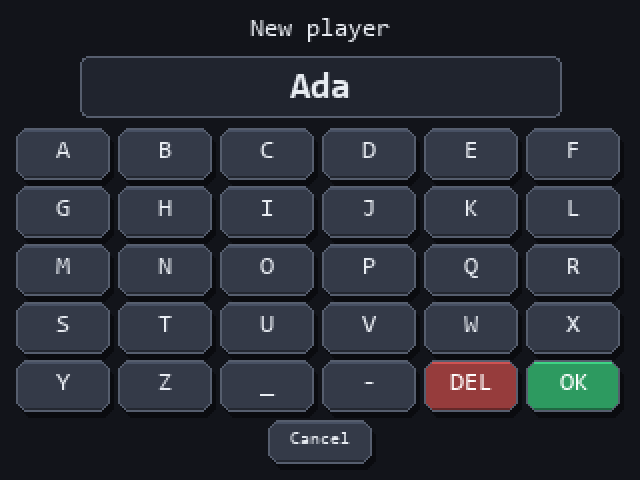
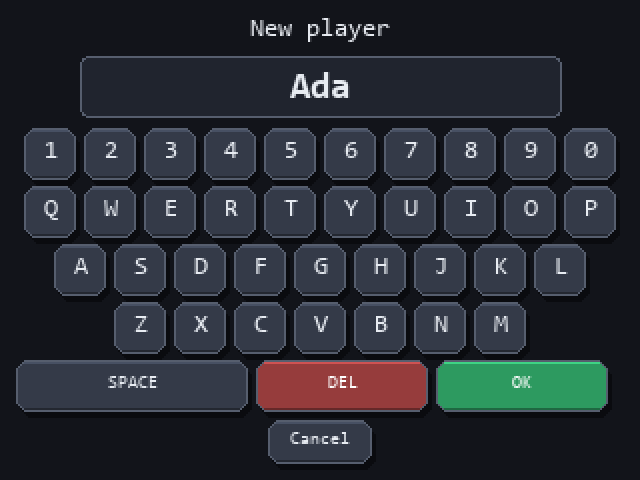
Draw the screens that changed
Three mock-ups had drifted from the firmware, which is the failure mode
docs/screens exists to prevent:

  - profiles-rename still drew the old 6x5 alphabetical grid, so it was a
    picture of a keyboard that no longer exists.
  - nearby showed neither the Name chips nor a named peer.
  - the naming screen had no picture at all.

All three now come from one _keypad() helper that mirrors Ui::Keypad --
ragged QWERTY rows centred, action row, anchored to the bottom above the
reserved footer. Keeping the mock-up's geometry in one place is the same
argument as keeping the firmware's in one place.

The nearby still shows a NAMED peer with its tag still visible beneath the
label, because that is the part of the design worth being able to see: the
tag is what travels, and it is the only way to notice a name sitting on
the wrong device.

gen_site gets the new still in SCREEN_CAPTIONS and the nearby showcase --
a still on disk the site does not reference makes gen_site refuse to
generate, which fails the Pages deploy rather than the build. Its Nearby
subtitle said "device tags only, never names", which is now too blunt to
be true: names exist, and the accurate claim is that they never leave the
device that stored them.

Changed region(s): [[0.0, 0.25, 0.9688, 0.875], [0.0938, 0.7812, 0.125, 0.8125]]

diff --git a/tools/gen_screens.py b/tools/gen_screens.py
@@ -1454,13 +1454,18 @@ def nearby():
         ("s", "You", "", None),
         ("r", "Your tag", "A4F2", None),
         ("r", "Listening", "Yes", SUCCESS),
-        ("s", "7C1B", "", None),
+        # A NAMED peer: the label is the heading and the tag stays as a row,
+        # because the tag is what travels and is the only way to spot a label
+        # sitting on the wrong device.
+        ("s", "RAVI", "", None),
+        ("r", "Tag", "7C1B", MUTED),
         ("r", "Distance", "Near", MUTED),
         ("r", "Playing", "Maze", None),
         ("r", "Their best", "9 lvl", WARN),
         ("r", "Your best", "7 lvl", None),
         ("r", "", "They are ahead of you", WARN),
         ("a", "Poke 7C1B", "", None),
+        ("a", "Rename 7C1B", "", None),
         # An IDLE peer, deliberately: this one is at its launcher with no game
         # open, and it still gets a Poke chip. The chip was originally added
         # after an early `continue` on this path, so a console sitting at its
@@ -1471,6 +1476,7 @@ def nearby():
         ("r", "Distance", "Far", MUTED),
         ("r", "Playing", "Choosing a game", MUTED),
         ("a", "Poke B930", "", None),
+        ("a", "Name B930", "", None),
     ]
     content = (0, 72, W, H - 72)
     # The value column narrows when a scroll bar is present, as RowList does.
@@ -1737,13 +1743,51 @@ def profiles_pick():
     return im
 
 
+# ---------------------------------------------------------------- keypad
+# Mirrors Ui::Keypad exactly: ragged QWERTY rows (10/10/9/7) centred, a
+# three-key action row, and the whole block ANCHORED TO THE BOTTOM above the
+# caller's reserved footer. Keep this in step with src/ui/Keypad.cpp -- a
+# mock-up of a keyboard that is not the keyboard is worse than no mock-up.
+KP_KEYS = ["1234567890", "QWERTYUIOP", "ASDFGHJKL", "ZXCVBNM", " <>"]
+KP_FOOTER_BUTTON = 34
+
+
+def _keypad(d, screen_w=None, screen_h=None, reserve=KP_FOOTER_BUTTON):
+    sw = screen_w if screen_w is not None else W
+    sh = screen_h if screen_h is not None else H
+    tall = sh > sw
+    gap = 2 if tall else 4
+    key_w = (sw - 16 - 9 * gap) // 10
+    key_h = 36 if tall else 26
+    pitch = 40 if tall else 29
+    y0 = sh - reserve - (4 * pitch + key_h)
+    for r, row in enumerate(KP_KEYS):
+        y = y0 + r * pitch
+        if r == 4:
+            unit = key_w + gap
+            widths = [4 * unit - gap, 3 * unit - gap, 3 * unit - gap]
+            x = 8
+            for c, ch in enumerate(row):
+                label = {"<": "DEL", ">": "OK", " ": "SPACE"}[ch]
+                fill = (150, 60, 60) if ch == "<" else GREEN if ch == ">" else PANEL
+                tc = WHITE if ch in "<>" else TEXT
+                button(d, (x, y, widths[c], key_h), label, fill, tc, F1)
+                x += widths[c] + gap
+            continue
+        n = len(row)
+        x0 = (sw - (n * key_w + (n - 1) * gap)) // 2
+        for c, ch in enumerate(row):
+            button(d, (x0 + c * (key_w + gap), y, key_w, key_h), ch, PANEL, TEXT, F2)
+    return y0
+
+
 def profiles_rename():
     """Name entry, reached from Add Player or from Edit -> Rename.
 
     Geometry follows ProfileGame: the centred title at y=8, the field at
     ((W - fieldW) / 2, 28, fieldW, 30) with fieldW = min(240, W - 40), the
-    6x5 key pad from keyRect() in landscape, and the Cancel button from
-    renameCancelRect() -- the exit this screen used to not have."""
+    QWERTY pad from Ui::Keypad (anchored to the bottom above FOOTER_BUTTON),
+    and the Cancel button from renameCancelRect()."""
     im, d = blank()
     lab = "New player"
     d.text((W / 2 - d.textlength(lab, font=F2) / 2, 8), lab, font=F2, fill=TEXT)
@@ -1756,21 +1800,27 @@ def profiles_rename():
     btn_w = 52
     bx = (W - btn_w) // 2
     button(d, (bx, H - 30, btn_w, 22), "Cancel", f=F1)
-    # Keyboard shifted up to make room for Cancel at bottom (landscape).
-    key_w = (W - 16 - 5 * 4) // 6
-    keys = ["ABCDEF", "GHIJKL", "MNOPQR", "STUVWX", "YZ -<>"]
-    # Cancel at y=210, gap=4, keyboard bottom=206, keyboard top=64
-    keyboard_y0 = 64
-    for r, row in enumerate(keys):
-        for c, ch in enumerate(row):
-            label = {"<": "DEL", ">": "OK", " ": "_"}.get(ch, ch)
-            if ch == "<":
-                fill, tc = (150, 60, 60), WHITE
-            elif ch == ">":
-                fill, tc = GREEN, WHITE
-            else:
-                fill, tc = PANEL, TEXT
-            button(d, (8 + c * (key_w + 4), keyboard_y0 + r * 29, key_w, 26), label, fill, tc, F2)
+    _keypad(d)
+    return im
+
+
+def nearby_name():
+    """Naming a nearby device, reached from the Name chip in the Nearby list.
+
+    Admin-only, and local: the label never reaches the radio. Geometry follows
+    NearbyGame::renderName -- heading at y=8, the field at ((W - fieldW) / 2,
+    28, fieldW, 30), Ui::Keypad below it and Cancel from nameCancelRect()."""
+    im, d = blank()
+    lab = "Name for A4F2"
+    d.text((W / 2 - d.textlength(lab, font=F2) / 2, 8), lab, font=F2, fill=MUTED)
+    field_w = min(240, W - 40)
+    fx = (W - field_w) // 2
+    d.rounded_rectangle([fx, 28, fx + field_w, 58], 4, fill=SURFACE, outline=OUTLINE)
+    draft = "RAVI"
+    d.text((W / 2 - d.textlength(draft, font=F4) / 2, 34), draft, font=F4, fill=TEXT)
+    btn_w = 52
+    button(d, ((W - btn_w) // 2, H - 30, btn_w, 22), "Cancel", f=F1)
+    _keypad(d)
     return im
 
 
@@ -1961,6 +2011,7 @@ EXTRA_SCREENS = [
     ("profiles", profiles_pick, "Profiles: who is playing"),
     ("profiles-rename", profiles_rename, "Profiles: the name entry for Add / Rename"),
     ("nearby", nearby, "Nearby: who else is playing"),
+    ("nearby-name", nearby_name, "Nearby: naming a device, locally"),
     ("systeminfo-ble", systeminfo_ble, "System Info: what BLE is broadcasting"),
     ("systeminfo-memory", systeminfo_memory, "System Info: heap and CPU"),
     ("about-radios", about_radios, "About: what the radios do"),

diff --git a/tools/gen_site.py b/tools/gen_site.py
@@ -185,6 +185,7 @@ SCREEN_CAPTIONS = {
     "network-time": "Wi-Fi and clock",
     "numberline": "Number Line",
     "nearby": "Nearby",
+    "nearby-name": "Nearby: naming a device, locally",
     "oddone": "Odd One",
     "percent": "Percent Circle",
     "profiles": "Profiles",
@@ -291,8 +292,10 @@ SYSTEM_SHOWCASE = (
     },
     {
         "id": "nearby",
-        "subtitle": "Opt-in, anonymous score sharing with other Brainos in range -- device tags only, never names.",
-        "stills": ("nearby",),
+        "subtitle": "Opt-in, anonymous score sharing with other Brainos in range, and a poke to get "
+                    "someone's attention. Device tags only on the radio; a name you give a device "
+                    "never leaves your own.",
+        "stills": ("nearby", "nearby-name"),
     },
     {
         "id": "screensaver",

diff --git a/README.md b/README.md
@@ -616,6 +616,7 @@ adversary.
 
 <p align="center">
   <img src="docs/screens/nearby.png" width="420" alt="Nearby: who else is playing">
+  <img src="docs/screens/nearby-name.png" width="420" alt="Nearby: naming a device, locally">
 </p>
 
 **Off by default.** Turned on, the console listens for other Brainos in range
